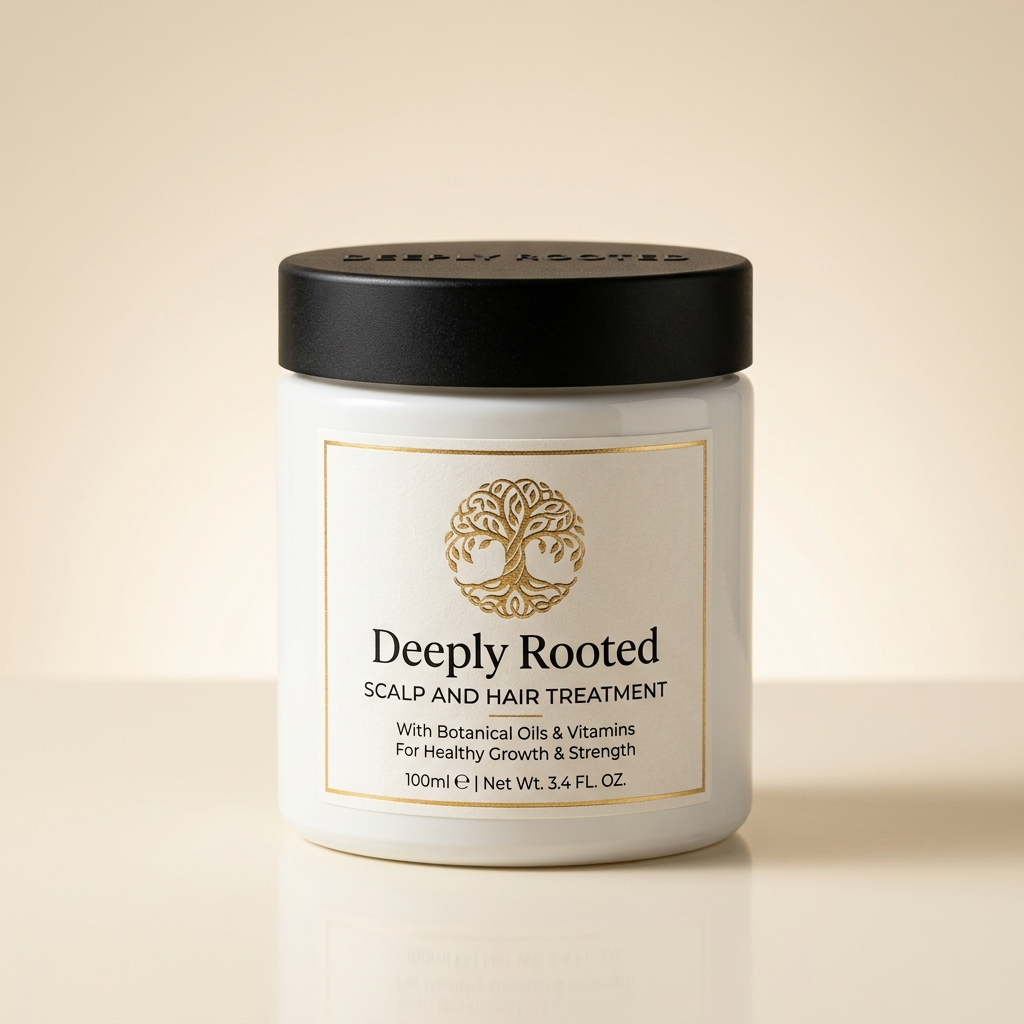
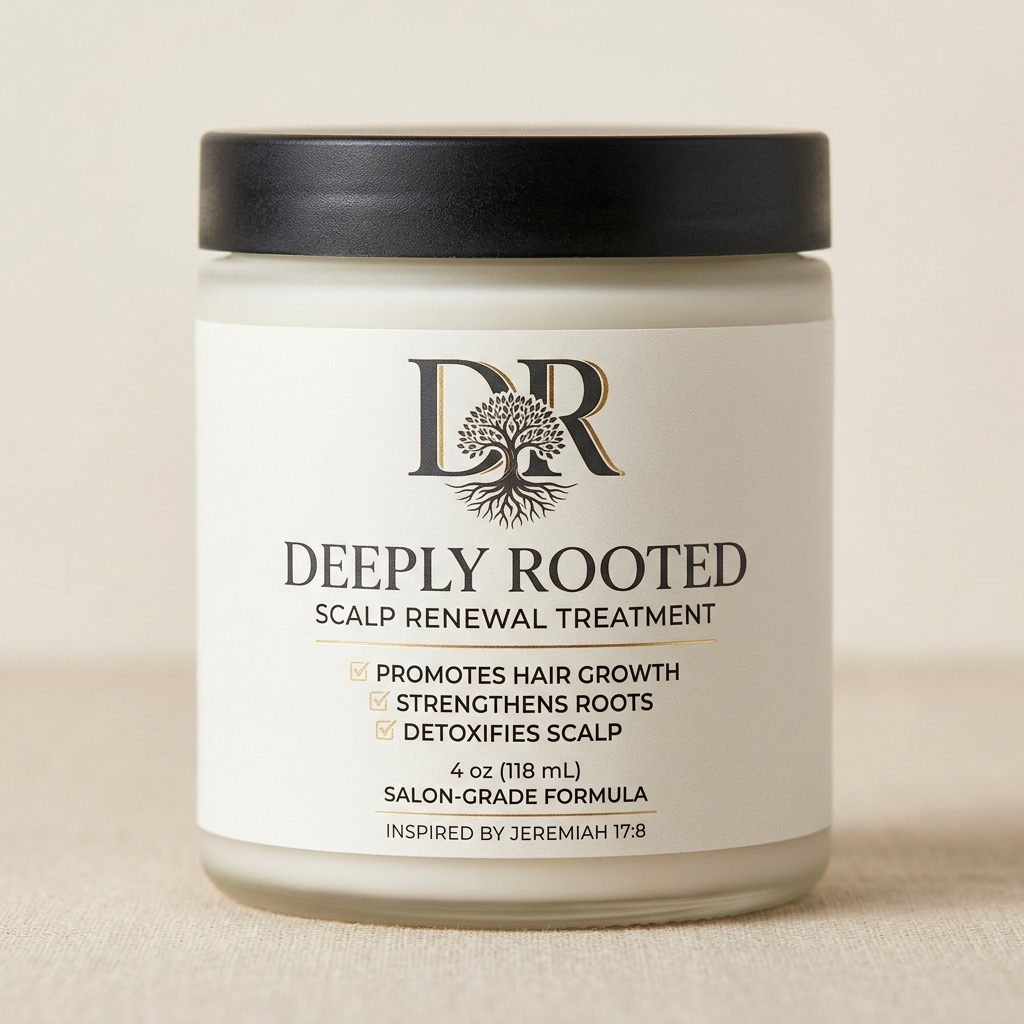
Deploy: 2026-04-30 update

diff --git a/index.html b/index.html
@@ -260,23 +260,24 @@
           </div>
         </div>
 
-        <!-- Scalp Treatment -->
+        <!-- Scalp Renewal Treatment -->
         <div class="lineup-card" data-product="scalp">
           <div class="lineup-card-badge lineup-badge-sage">Scalp Care</div>
           <div class="lineup-card-image">
             <div class="lineup-card-glow"></div>
-            <img src="assets/images/product-scalp-treatment.png" alt="Deeply Rooted Scalp & Hair Treatment" loading="lazy">
+            <img src="assets/images/product-scalp-treatment.png" alt="Deeply Rooted Scalp Renewal Treatment — 4 oz Salon-Grade Formula" loading="lazy">
           </div>
           <div class="lineup-card-content">
-            <h3>Scalp Treatment</h3>
+            <h3>Scalp Renewal Treatment</h3>
             <div class="lineup-duration">
               <div class="lineup-duration-bar" style="--duration-width: 60%"></div>
-              <span class="lineup-duration-text">With <strong>Ginger & Coconut Oil</strong></span>
+              <span class="lineup-duration-text"><strong>Salon-Grade</strong> Formula</span>
             </div>
             <ul class="lineup-features">
-              <li>Scalp revival & nourishment</li>
               <li>Promotes hair growth</li>
-              <li>100ml — For everyone</li>
+              <li>Strengthens roots</li>
+              <li>Detoxifies scalp</li>
+              <li>4 oz (118 mL) — For everyone</li>
             </ul>
             <a href="https://hair-botox-deeply-rooted.myshopify.com" target="_blank" class="btn btn-primary btn-ripple lineup-btn">SHOP NOW</a>
           </div>
@@ -404,7 +405,7 @@
             <a href="https://hair-botox-deeply-rooted.myshopify.com/" target="_blank">Cynty</a>
             <a href="https://hair-botox-deeply-rooted.myshopify.com/" target="_blank">Michelle</a>
             <a href="https://hair-botox-deeply-rooted.myshopify.com/" target="_blank">Lea</a>
-            <a href="https://hair-botox-deeply-rooted.myshopify.com/" target="_blank">Scalp Treatment</a>
+            <a href="https://hair-botox-deeply-rooted.myshopify.com/" target="_blank">Scalp Renewal Treatment</a>
           </div>
         </div>
         <div>
